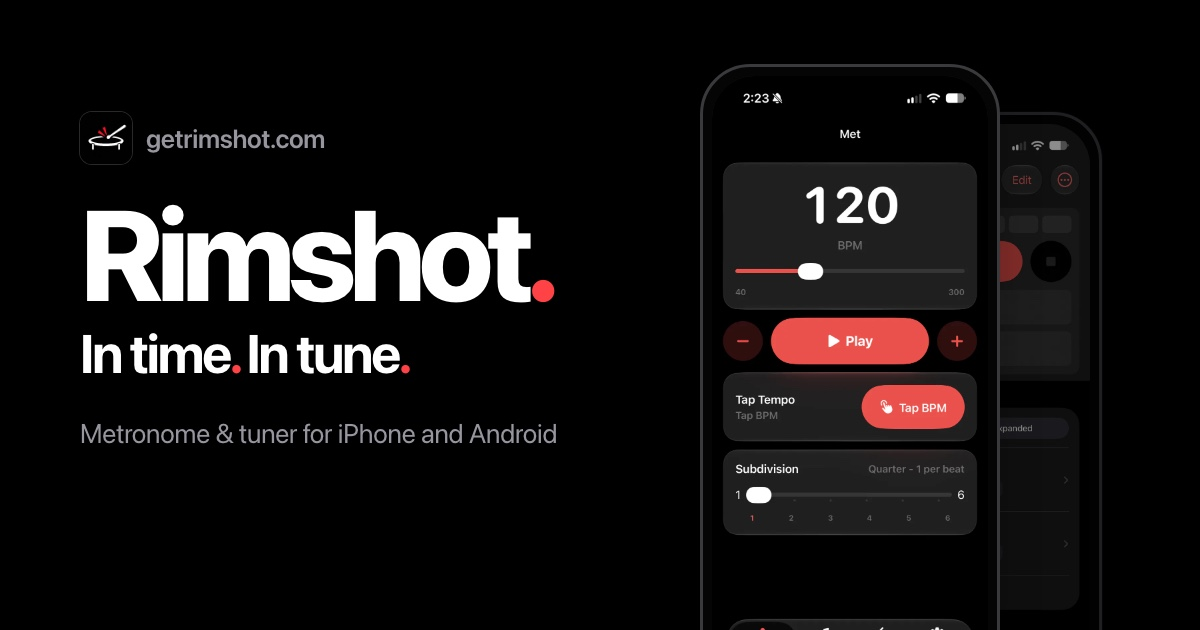
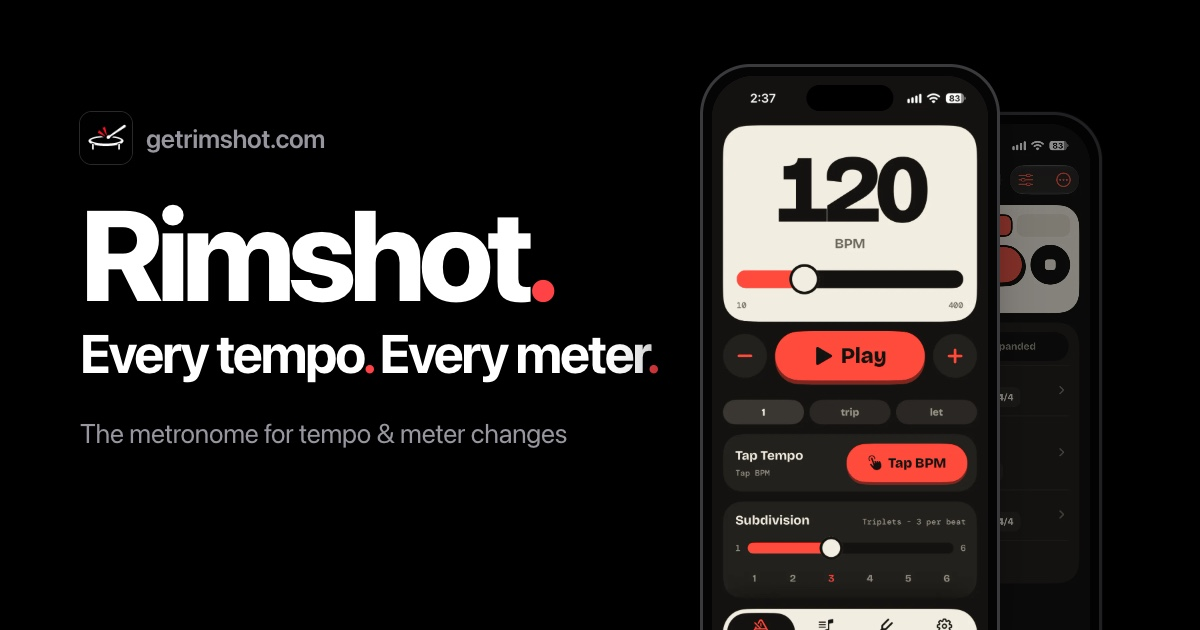
Lead with the metronome and make the tuner a secondary feature
The tagline goes from "In time. In tune." to "Every tempo. Every
meter.", on the homepage and the social card. The hero and the home,
Android and Support titles and descriptions now call Rimshot a
metronome, with the tuner mentioned as built in. Tuner leaves the header
nav, and its section moves below Settings as a smaller "Also in
Rimshot" block without its own phone screenshot.

diff --git a/index.html b/index.html
@@ -4,7 +4,7 @@
   <meta charset="utf-8">
   <meta name="viewport" content="width=device-width, initial-scale=1, viewport-fit=cover">
   <title>Rimshot · Metronome for Tempo &amp; Time Signature Changes</title>
-  <meta name="description" content="Rimshot is a free metronome and tuner for iPhone and Android. Build a show with tempo and time signature changes, ramps and loops, and play it start to finish.">
+  <meta name="description" content="Rimshot is a free metronome for iPhone and Android. Build a show with tempo and time signature changes, ramps and loops, and play it start to finish.">
   <link rel="canonical" href="https://getrimshot.com/">
   <meta name="theme-color" content="#000000">
   <meta name="apple-itunes-app" content="app-id=6816163060">
@@ -17,12 +17,12 @@
   <meta property="og:image" content="https://getrimshot.com/assets/social/rimshot-card.jpg">
   <meta property="og:image:width" content="1200">
   <meta property="og:image:height" content="630">
-  <meta property="og:image:alt" content="Rimshot. In time. In tune. A metronome and tuner for iPhone and Android, shown beside the app's Met screen">
+  <meta property="og:image:alt" content="Rimshot. Every tempo. Every meter. The metronome for shows that change tempo and time signature, shown beside the app's Met screen">
   <meta name="twitter:card" content="summary_large_image">
 
   <link rel="icon" href="/assets/icon/favicon.png" type="image/png">
   <link rel="apple-touch-icon" href="/assets/icon/apple-touch-icon.png">
-  <link rel="stylesheet" href="/assets/css/site.css?v=12ae7f08">
+  <link rel="stylesheet" href="/assets/css/site.css?v=4dccf2f0">
   <script>try{var t=localStorage.getItem("theme");if(t==="light"||t==="dark")document.documentElement.dataset.theme=t}catch(e){}if(/Android/i.test(navigator.userAgent))document.documentElement.dataset.platform="android"</script>
   <script src="/assets/js/show-player.js?v=9d19586a" defer></script>
   <script src="/assets/js/site.js?v=e3002234" defer></script>
@@ -61,7 +61,7 @@
         "@type": "MobileApplication",
         "@id": "https://getrimshot.com/#app",
         "name": "Rimshot",
-        "description": "Rimshot is a free metronome and tuner for iPhone and Android. Build a show with tempo and time signature changes, ramps and loops, and play it start to finish.",
+        "description": "Rimshot is a free metronome for iPhone and Android. Build a show with tempo and time signature changes, ramps and loops, and play it start to finish.",
         "url": "https://getrimshot.com/",
         "installUrl": "https://apps.apple.com/us/app/rimshot-metronome/id6816163060",
         "operatingSystem": "iOS, Android",
@@ -204,7 +204,6 @@
         <ul class="nav-links">
           <li><a href="#met">Met</a></li>
           <li><a href="#show">Show</a></li>
-          <li><a href="#tuner">Tuner</a></li>
           <li><a href="#faq">FAQ</a></li>
         </ul>
       </nav>
@@ -230,8 +229,8 @@
         <div class="hero-copy">
           <div class="pulse" aria-hidden="true"><i></i><i></i><i></i><i></i><span>120 BPM</span></div>
           <h1>Rimshot<span class="dot">.</span></h1>
-          <p class="tagline">In time<span class="dot">.</span> In tune<span class="dot">.</span></p>
-          <p class="lede">Rimshot is a metronome and tuner for iPhone and Android. Build a show and rehearse the whole piece, with every tempo and time signature change landing right on the downbeat.</p>
+          <p class="tagline">Every tempo<span class="dot">.</span> Every meter<span class="dot">.</span></p>
+          <p class="lede">Rimshot is a metronome for iPhone and Android. Build a show and rehearse the whole piece, with every tempo and time signature change landing right on the downbeat. There's a tuner built in, too.</p>
           <div class="cta-row">
             <a class="btn btn-primary" href="https://apps.apple.com/us/app/rimshot-metronome/id6816163060" data-store="ios">Download on the App Store</a>
             <a class="btn btn-secondary" href="/android/" data-store="android">Join the Android beta</a>
@@ -317,29 +316,6 @@
       </div>
     </section>
 
-    <!-- Tuner -->
-    <section class="section" id="tuner">
-      <div class="wrap split">
-        <div class="copy">
-          <p class="eyebrow">Tuner mode</p>
-          <h2>Right on pitch<span class="dot">.</span></h2>
-          <p class="body">Play a note and Rimshot shows what it hears, how many cents you're off, and which way to go. It tells you when you're in tune.</p>
-          <ul class="list">
-            <li><span class="k">Readout</span><span class="v">Note name and cents</span></li>
-            <li><span class="k">Reference pitch</span><span class="v">A4 = 440 Hz, adjustable</span></li>
-            <li><span class="k">Microphone</span><span class="v">Never recorded</span></li>
-          </ul>
-        </div>
-        <div class="phone">
-          <div class="screen" data-shot="/assets/screens/{theme}/tuner">
-            <div class="placeholder"><strong>Tuner</strong><code>light/tuner.webp<br>dark/tuner.webp</code></div>
-            <img class="shot" src="/assets/screens/dark/tuner.webp" srcset="/assets/screens/dark/tuner-640.webp 640w, /assets/screens/dark/tuner.webp 828w" sizes="294px" alt="Rimshot's tuner reading C, a few cents off and in tune" width="828" height="1800" loading="lazy" decoding="async">
-            <span class="island"></span>
-          </div>
-        </div>
-      </div>
-    </section>
-
     <!-- Settings -->
     <section class="section" id="settings">
       <div class="wrap split">
@@ -375,6 +351,22 @@
             </div>
           </div>
         </div>
+      </div>
+    </section>
+
+    <!-- Tuner -->
+    <section class="section" id="tuner">
+      <div class="wrap split">
+        <div class="copy">
+          <p class="eyebrow">Also in Rimshot</p>
+          <h2>A tuner, too<span class="dot">.</span></h2>
+          <p class="body">Tune up before you start without switching apps. Play a note and Rimshot shows what it hears, how many cents you're off, and which way to go.</p>
+        </div>
+        <ul class="list">
+          <li><span class="k">Readout</span><span class="v">Note name and cents</span></li>
+          <li><span class="k">Reference pitch</span><span class="v">A4 = 440 Hz, adjustable</span></li>
+          <li><span class="k">Microphone</span><span class="v">Never recorded</span></li>
+        </ul>
       </div>
     </section>
 

diff --git a/support/index.html b/support/index.html
@@ -3,24 +3,24 @@
 <head>
   <meta charset="utf-8">
   <meta name="viewport" content="width=device-width, initial-scale=1, viewport-fit=cover">
-  <title>Rimshot Support · Help with the Metronome &amp; Tuner App</title>
-  <meta name="description" content="Get help with Rimshot, the metronome and tuner for iPhone and Android. Quick fixes for the tuner, background playback and the click, or email us.">
+  <title>Rimshot Support · Help with the Rimshot Metronome App</title>
+  <meta name="description" content="Get help with Rimshot, the metronome for iPhone and Android. Quick fixes for background playback, the click and the tuner, or email us for anything else.">
   <link rel="canonical" href="https://getrimshot.com/support/">
   <meta property="og:type" content="website">
   <meta property="og:url" content="https://getrimshot.com/support/">
-  <meta property="og:title" content="Rimshot Support · Help with the Metronome &amp; Tuner App">
-  <meta property="og:description" content="Get help with Rimshot, the metronome and tuner for iPhone and Android. Quick fixes for the tuner, background playback and the click, or email us.">
+  <meta property="og:title" content="Rimshot Support · Help with the Rimshot Metronome App">
+  <meta property="og:description" content="Get help with Rimshot, the metronome for iPhone and Android. Quick fixes for background playback, the click and the tuner, or email us for anything else.">
   <meta property="og:site_name" content="Rimshot">
   <meta property="og:image" content="https://getrimshot.com/assets/social/rimshot-card.jpg">
   <meta property="og:image:width" content="1200">
   <meta property="og:image:height" content="630">
-  <meta property="og:image:alt" content="Rimshot. In time. In tune. A metronome and tuner for iPhone and Android, shown beside the app's Met screen">
+  <meta property="og:image:alt" content="Rimshot. Every tempo. Every meter. The metronome for shows that change tempo and time signature, shown beside the app's Met screen">
   <meta name="twitter:card" content="summary_large_image">
   <meta name="apple-itunes-app" content="app-id=6816163060">
   <meta name="theme-color" content="#000000">
   <link rel="icon" href="/assets/icon/favicon.png" type="image/png">
   <link rel="apple-touch-icon" href="/assets/icon/apple-touch-icon.png">
-  <link rel="stylesheet" href="/assets/css/site.css?v=12ae7f08">
+  <link rel="stylesheet" href="/assets/css/site.css?v=4dccf2f0">
   <script>try{var t=localStorage.getItem("theme");if(t==="light"||t==="dark")document.documentElement.dataset.theme=t}catch(e){}if(/Android/i.test(navigator.userAgent))document.documentElement.dataset.platform="android"</script>
   <script src="/assets/js/site.js?v=e3002234" defer></script>
   <script type="application/ld+json">
@@ -57,7 +57,6 @@
         <ul class="nav-links">
           <li><a href="/#met">Met</a></li>
           <li><a href="/#show">Show</a></li>
-          <li><a href="/#tuner">Tuner</a></li>
           <li><a href="/#faq">FAQ</a></li>
         </ul>
       </nav>

diff --git a/android/index.html b/android/index.html
@@ -3,24 +3,24 @@
 <head>
   <meta charset="utf-8">
   <meta name="viewport" content="width=device-width, initial-scale=1, viewport-fit=cover">
-  <title>Rimshot for Android · Join the Metronome &amp; Tuner Beta</title>
-  <meta name="description" content="Rimshot, the free metronome and tuner with tempo-changing shows, is in closed testing on Google Play. Join the Android beta in three quick steps.">
+  <title>Rimshot for Android · Join the Free Metronome Beta</title>
+  <meta name="description" content="Rimshot, the free metronome for shows that change tempo and meter, is in closed testing on Google Play. Join the Android beta in three quick steps.">
   <link rel="canonical" href="https://getrimshot.com/android/">
   <meta property="og:type" content="website">
   <meta property="og:url" content="https://getrimshot.com/android/">
-  <meta property="og:title" content="Rimshot for Android · Join the Metronome &amp; Tuner Beta">
-  <meta property="og:description" content="Rimshot, the free metronome and tuner with tempo-changing shows, is in closed testing on Google Play. Join the Android beta in three quick steps.">
+  <meta property="og:title" content="Rimshot for Android · Join the Free Metronome Beta">
+  <meta property="og:description" content="Rimshot, the free metronome for shows that change tempo and meter, is in closed testing on Google Play. Join the Android beta in three quick steps.">
   <meta property="og:site_name" content="Rimshot">
   <meta property="og:image" content="https://getrimshot.com/assets/social/rimshot-card.jpg">
   <meta property="og:image:width" content="1200">
   <meta property="og:image:height" content="630">
-  <meta property="og:image:alt" content="Rimshot. In time. In tune. A metronome and tuner for iPhone and Android, shown beside the app's Met screen">
+  <meta property="og:image:alt" content="Rimshot. Every tempo. Every meter. The metronome for shows that change tempo and time signature, shown beside the app's Met screen">
   <meta name="twitter:card" content="summary_large_image">
   <meta name="apple-itunes-app" content="app-id=6816163060">
   <meta name="theme-color" content="#000000">
   <link rel="icon" href="/assets/icon/favicon.png" type="image/png">
   <link rel="apple-touch-icon" href="/assets/icon/apple-touch-icon.png">
-  <link rel="stylesheet" href="/assets/css/site.css?v=12ae7f08">
+  <link rel="stylesheet" href="/assets/css/site.css?v=4dccf2f0">
   <script>try{var t=localStorage.getItem("theme");if(t==="light"||t==="dark")document.documentElement.dataset.theme=t}catch(e){}if(/Android/i.test(navigator.userAgent))document.documentElement.dataset.platform="android"</script>
   <script src="/assets/js/site.js?v=e3002234" defer></script>
   <script type="application/ld+json">
@@ -57,7 +57,6 @@
         <ul class="nav-links">
           <li><a href="/#met">Met</a></li>
           <li><a href="/#show">Show</a></li>
-          <li><a href="/#tuner">Tuner</a></li>
           <li><a href="/#faq">FAQ</a></li>
         </ul>
       </nav>

diff --git a/s/index.html b/s/index.html
@@ -15,7 +15,7 @@
   <meta property="og:image" content="https://getrimshot.com/assets/social/rimshot-card.jpg">
   <meta property="og:image:width" content="1200">
   <meta property="og:image:height" content="630">
-  <meta property="og:image:alt" content="Rimshot. In time. In tune. A metronome and tuner for iPhone and Android, shown beside the app's Met screen">
+  <meta property="og:image:alt" content="Rimshot. Every tempo. Every meter. The metronome for shows that change tempo and time signature, shown beside the app's Met screen">
   <meta name="twitter:card" content="summary_large_image">
   <meta name="twitter:title" content="A show for you in Rimshot">
   <meta name="twitter:description" content="Tap to hear it in your browser, then practice it in Rimshot, the free metronome for shows that change tempo and time signature.">
@@ -23,7 +23,7 @@
   <meta name="theme-color" content="#000000">
   <link rel="icon" href="/assets/icon/favicon.png" type="image/png">
   <link rel="apple-touch-icon" href="/assets/icon/apple-touch-icon.png">
-  <link rel="stylesheet" href="/assets/css/site.css?v=12ae7f08">
+  <link rel="stylesheet" href="/assets/css/site.css?v=4dccf2f0">
   <script>try{var t=localStorage.getItem("theme");if(t==="light"||t==="dark")document.documentElement.dataset.theme=t}catch(e){}if(/Android/i.test(navigator.userAgent))document.documentElement.dataset.platform="android"</script>
   <script src="/assets/js/show-player.js?v=9d19586a" defer></script>
   <script src="/assets/js/site.js?v=e3002234" defer></script>
@@ -42,7 +42,6 @@
         <ul class="nav-links">
           <li><a href="/#met">Met</a></li>
           <li><a href="/#show">Show</a></li>
-          <li><a href="/#tuner">Tuner</a></li>
           <li><a href="/#faq">FAQ</a></li>
         </ul>
       </nav>
@@ -104,7 +103,7 @@
         <div data-qr-code></div>
         <p><strong>On your phone?</strong> Scan with your phone to open it in Rimshot.</p>
       </div>
-      <p class="share-foot">Rimshot is a free metronome and tuner. Open this show in the app to loop parts, slow it down, and practice it offline.</p>
+      <p class="share-foot">Rimshot is a free metronome for shows that change tempo and time signature. Open this show in the app to loop parts, slow it down, and practice it offline.</p>
     </div>
 
     <div id="share-error" class="share-error" hidden>

diff --git a/marching-band/index.html b/marching-band/index.html
@@ -14,13 +14,13 @@
   <meta property="og:image" content="https://getrimshot.com/assets/social/rimshot-card.jpg">
   <meta property="og:image:width" content="1200">
   <meta property="og:image:height" content="630">
-  <meta property="og:image:alt" content="Rimshot. In time. In tune. A metronome and tuner for iPhone and Android, shown beside the app's Met screen">
+  <meta property="og:image:alt" content="Rimshot. Every tempo. Every meter. The metronome for shows that change tempo and time signature, shown beside the app's Met screen">
   <meta name="twitter:card" content="summary_large_image">
   <meta name="apple-itunes-app" content="app-id=6816163060">
   <meta name="theme-color" content="#000000">
   <link rel="icon" href="/assets/icon/favicon.png" type="image/png">
   <link rel="apple-touch-icon" href="/assets/icon/apple-touch-icon.png">
-  <link rel="stylesheet" href="/assets/css/site.css?v=12ae7f08">
+  <link rel="stylesheet" href="/assets/css/site.css?v=4dccf2f0">
   <script>try{var t=localStorage.getItem("theme");if(t==="light"||t==="dark")document.documentElement.dataset.theme=t}catch(e){}if(/Android/i.test(navigator.userAgent))document.documentElement.dataset.platform="android"</script>
   <script src="/assets/js/show-player.js?v=9d19586a" defer></script>
   <script src="/assets/js/site.js?v=e3002234" defer></script>
@@ -58,7 +58,6 @@
         <ul class="nav-links">
           <li><a href="/#met">Met</a></li>
           <li><a href="/#show">Show</a></li>
-          <li><a href="/#tuner">Tuner</a></li>
           <li><a href="/#faq">FAQ</a></li>
         </ul>
       </nav>

diff --git a/musical-theater/index.html b/musical-theater/index.html
@@ -14,13 +14,13 @@
   <meta property="og:image" content="https://getrimshot.com/assets/social/rimshot-card.jpg">
   <meta property="og:image:width" content="1200">
   <meta property="og:image:height" content="630">
-  <meta property="og:image:alt" content="Rimshot. In time. In tune. A metronome and tuner for iPhone and Android, shown beside the app's Met screen">
+  <meta property="og:image:alt" content="Rimshot. Every tempo. Every meter. The metronome for shows that change tempo and time signature, shown beside the app's Met screen">
   <meta name="twitter:card" content="summary_large_image">
   <meta name="apple-itunes-app" content="app-id=6816163060">
   <meta name="theme-color" content="#000000">
   <link rel="icon" href="/assets/icon/favicon.png" type="image/png">
   <link rel="apple-touch-icon" href="/assets/icon/apple-touch-icon.png">
-  <link rel="stylesheet" href="/assets/css/site.css?v=12ae7f08">
+  <link rel="stylesheet" href="/assets/css/site.css?v=4dccf2f0">
   <script>try{var t=localStorage.getItem("theme");if(t==="light"||t==="dark")document.documentElement.dataset.theme=t}catch(e){}if(/Android/i.test(navigator.userAgent))document.documentElement.dataset.platform="android"</script>
   <script src="/assets/js/show-player.js?v=9d19586a" defer></script>
   <script src="/assets/js/site.js?v=e3002234" defer></script>
@@ -58,7 +58,6 @@
         <ul class="nav-links">
           <li><a href="/#met">Met</a></li>
           <li><a href="/#show">Show</a></li>
-          <li><a href="/#tuner">Tuner</a></li>
           <li><a href="/#faq">FAQ</a></li>
         </ul>
       </nav>

diff --git a/privacy/index.html b/privacy/index.html
@@ -14,13 +14,13 @@
   <meta property="og:image" content="https://getrimshot.com/assets/social/rimshot-card.jpg">
   <meta property="og:image:width" content="1200">
   <meta property="og:image:height" content="630">
-  <meta property="og:image:alt" content="Rimshot. In time. In tune. A metronome and tuner for iPhone and Android, shown beside the app's Met screen">
+  <meta property="og:image:alt" content="Rimshot. Every tempo. Every meter. The metronome for shows that change tempo and time signature, shown beside the app's Met screen">
   <meta name="twitter:card" content="summary_large_image">
   <meta name="apple-itunes-app" content="app-id=6816163060">
   <meta name="theme-color" content="#000000">
   <link rel="icon" href="/assets/icon/favicon.png" type="image/png">
   <link rel="apple-touch-icon" href="/assets/icon/apple-touch-icon.png">
-  <link rel="stylesheet" href="/assets/css/site.css?v=12ae7f08">
+  <link rel="stylesheet" href="/assets/css/site.css?v=4dccf2f0">
   <script>try{var t=localStorage.getItem("theme");if(t==="light"||t==="dark")document.documentElement.dataset.theme=t}catch(e){}if(/Android/i.test(navigator.userAgent))document.documentElement.dataset.platform="android"</script>
   <script src="/assets/js/site.js?v=e3002234" defer></script>
   <script type="application/ld+json">
@@ -57,7 +57,6 @@
         <ul class="nav-links">
           <li><a href="/#met">Met</a></li>
           <li><a href="/#show">Show</a></li>
-          <li><a href="/#tuner">Tuner</a></li>
           <li><a href="/#faq">FAQ</a></li>
         </ul>
       </nav>

diff --git a/scripts/social-card.html b/scripts/social-card.html
@@ -14,7 +14,7 @@
   <meta charset="utf-8">
   <meta name="robots" content="noindex">
   <title>Rimshot social card</title>
-  <link rel="stylesheet" href="/assets/css/site.css?v=12ae7f08">
+  <link rel="stylesheet" href="/assets/css/site.css?v=4dccf2f0">
   <style>
     html, body { width: 1200px; height: 630px; overflow: hidden; }
     body { position: relative; }
@@ -35,8 +35,8 @@
   <div class="card-copy">
     <div class="card-brand"><img src="/assets/icon/Rimshot_256.jpg" alt="">getrimshot.com</div>
     <h1>Rimshot<span class="dot">.</span></h1>
-    <p class="tagline">In time<span class="dot">.</span> In tune<span class="dot">.</span></p>
-    <p class="lede">Metronome &amp; tuner for iPhone and Android</p>
+    <p class="tagline">Every tempo<span class="dot">.</span> Every meter<span class="dot">.</span></p>
+    <p class="lede">The metronome for tempo &amp; meter changes</p>
   </div>
 
   <div class="phone card-phone back">

diff --git a/404.html b/404.html
@@ -8,7 +8,7 @@
   <meta name="theme-color" content="#000000">
   <link rel="icon" href="/assets/icon/favicon.png" type="image/png">
   <link rel="apple-touch-icon" href="/assets/icon/apple-touch-icon.png">
-  <link rel="stylesheet" href="/assets/css/site.css?v=12ae7f08">
+  <link rel="stylesheet" href="/assets/css/site.css?v=4dccf2f0">
   <script>try{var t=localStorage.getItem("theme");if(t==="light"||t==="dark")document.documentElement.dataset.theme=t}catch(e){}if(/Android/i.test(navigator.userAgent))document.documentElement.dataset.platform="android"</script>
   <script src="/assets/js/site.js?v=e3002234" defer></script>
 </head>
@@ -25,7 +25,6 @@
         <ul class="nav-links">
           <li><a href="/#met">Met</a></li>
           <li><a href="/#show">Show</a></li>
-          <li><a href="/#tuner">Tuner</a></li>
           <li><a href="/#faq">FAQ</a></li>
         </ul>
       </nav>

diff --git a/assets/css/site.css b/assets/css/site.css
@@ -400,6 +400,8 @@ h1, h2, h3, p { margin: 0; }
   line-height: 1;
   font-weight: 700;
   letter-spacing: -.045em;
+  /* Two even lines on phones, not one word left dangling. */
+  text-wrap: balance;
 }
 
 .lede {
